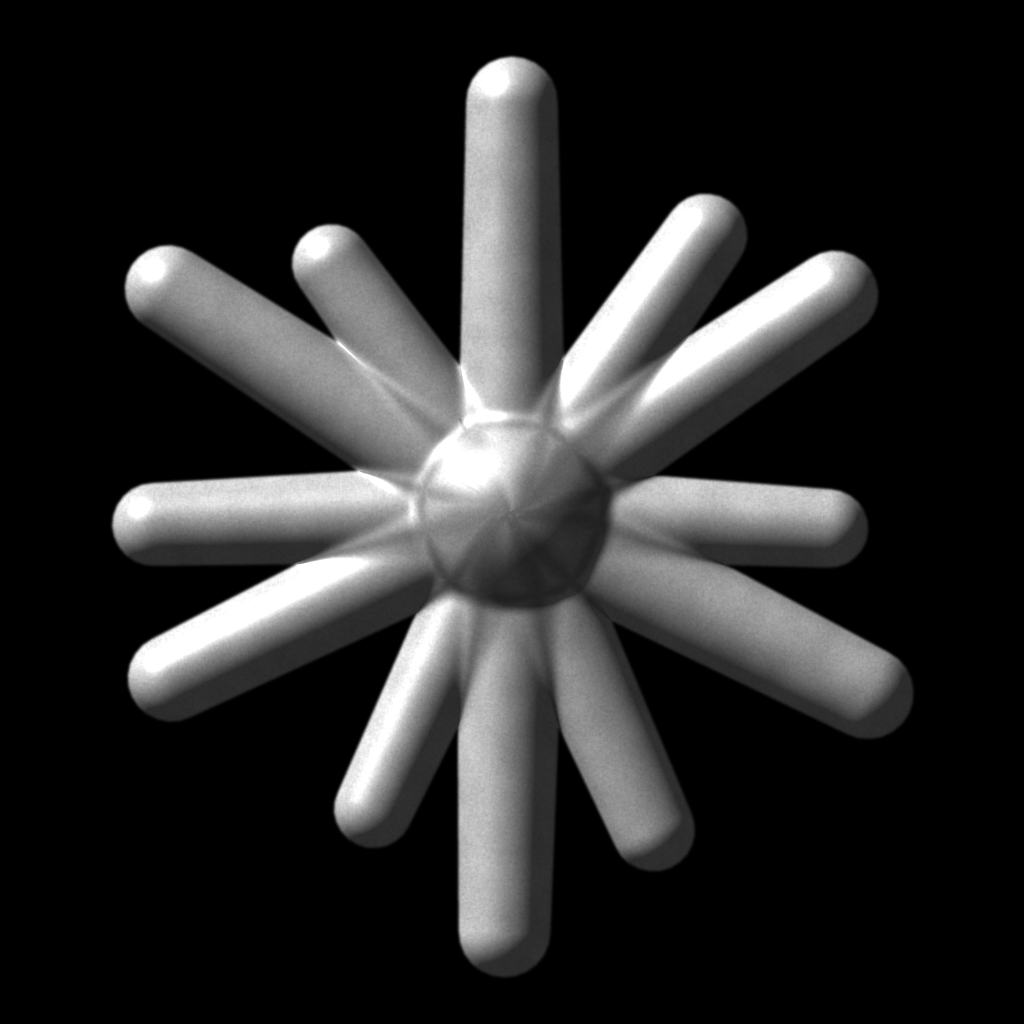
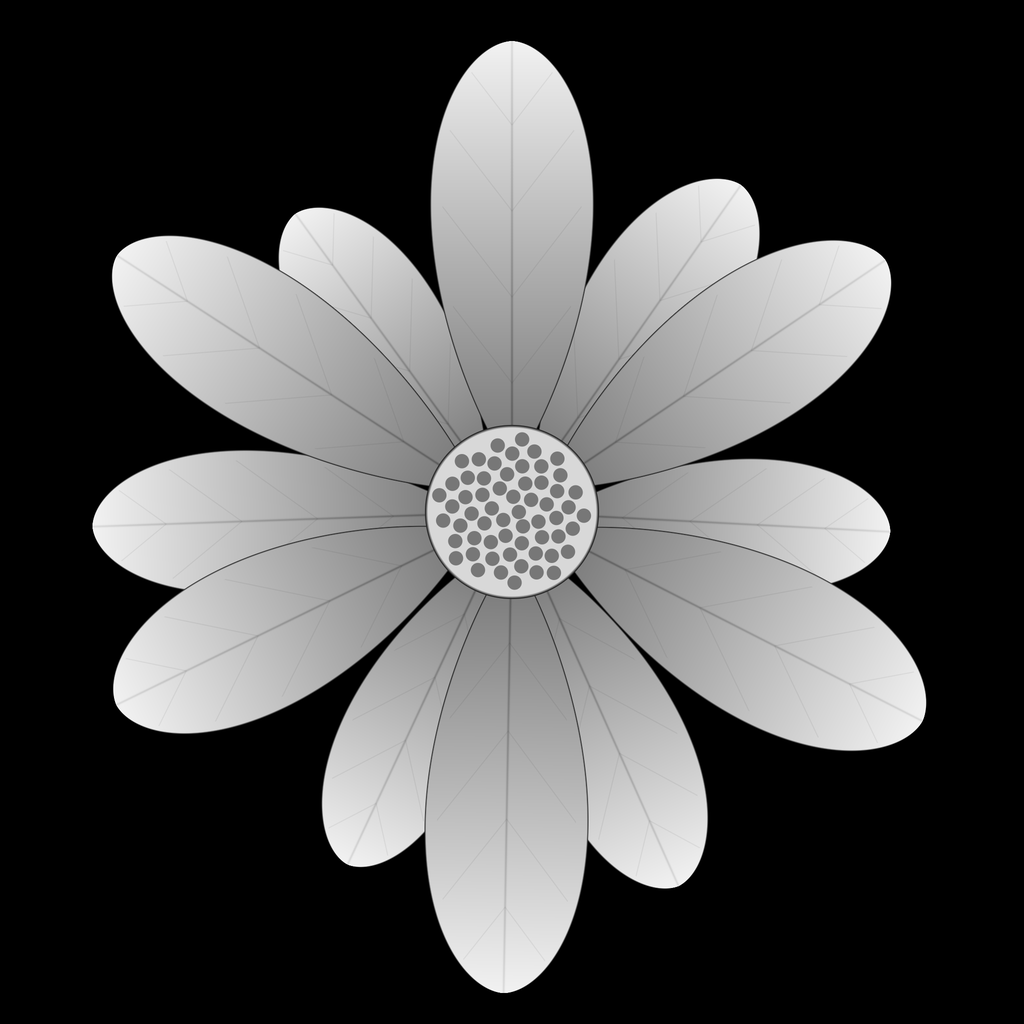
Starburst redrawn as a flat flower: rays become petals round a seeded heart

diff --git a/tools/make-starburst.py b/tools/make-starburst.py
@@ -1,8 +1,8 @@
-"""Draws the starburst picture used as the terminal background.
+"""Draws the picture used as the terminal background: the starburst as a flower.
 
-Our own drawing, in the spirit of the Claude spark: uneven rays of different
-lengths and widths, meeting in the middle. Shaded as a raised, rounded shape lit
-from the upper left, with a fine grain on its surface, so it has depth and texture.
+Our own drawing, in the spirit of the Claude spark: the same uneven rays, but each ray
+is a petal (narrow at the middle, wide and rounded at the end, a vein down the centre)
+around a seeded flower heart. Flat 2D, like a drawing, not lit like an object.
 Grey on black; the shader turns it green, adds the stripes and the rolling light.
 
     python tools/make-starburst.py  ->  styles/green-monitor-starburst/starburst.png
@@ -11,145 +11,93 @@ import math
 import os
 
 import numpy as np
-from PIL import Image, ImageDraw, ImageFilter
+from PIL import Image
 
 SIZE = 1024            # finished picture, square, in pixels
-SUPERSAMPLE = 4        # draw bigger, then shrink, for smooth edges
+SUPERSAMPLE = 2        # draw bigger, then shrink, for smooth edges
 RAY_COUNT = 12
-INNER_RADIUS = 0.05    # fraction of the picture; where each ray starts (near the middle)
-# per ray: (length, width at the base, angle nudge in degrees); uneven on purpose
+# per petal: (length, widest width, angle nudge in degrees); uneven on purpose, like the spark
 RAYS = [
-    (0.40, 0.105, 0), (0.33, 0.095, 5), (0.38, 0.100, -4), (0.31, 0.090, 3),
-    (0.39, 0.105, -3), (0.34, 0.095, 6), (0.41, 0.105, 1), (0.32, 0.090, -5),
-    (0.37, 0.100, 4), (0.35, 0.095, -2), (0.40, 0.100, 3), (0.30, 0.090, -6),
+    (0.46, 0.16, 0), (0.39, 0.14, 5), (0.44, 0.15, -4), (0.37, 0.13, 3),
+    (0.45, 0.16, -3), (0.40, 0.14, 6), (0.47, 0.16, 1), (0.38, 0.13, -5),
+    (0.43, 0.15, 4), (0.41, 0.14, -2), (0.46, 0.15, 3), (0.36, 0.13, -6),
 ]
-TIP_WIDTH = 0.85       # tip width as a fraction of the base width (rounded tip)
-SOFTEN = 1.2           # final blur radius in pixels, so the edges are not razor sharp
+PETAL_START = 0.04     # where petals begin, from the middle (fraction of the picture)
+WIDEST_AT = 0.62       # how far along the petal it is widest (0 = base, 1 = tip)
+TIP_ROUND = 0.55       # lower = rounder, fuller tip; higher = more pointed
 
-# depth and texture
-CORE_RADIUS = 0.10     # the round middle, as a fraction of the picture
-CORE_FLATTEN = 1.0     # how domed the middle is compared with the rays (1 = a full ball)
-BLEND = 30             # pixels; how smoothly rays flow into each other (0 = hard joins)
-LIGHT_DIR = (-0.6, -0.7, 0.45)   # light from the upper left, a little in front
-AMBIENT = 0.18         # brightness of the side facing away from the light
-SHINE = 0.55           # strength of the glossy highlight
-SHINE_TIGHTNESS = 30   # higher = smaller, sharper highlight
-GRAIN = 0.10           # fine surface grain (0 = smooth)
-MOTTLE = 0.14          # larger soft blotches, like worn metal
-MOTTLE_SIZE = 9        # pixels; size of the blotches
-CREASE = 0.25          # darkening in the grooves where rays meet (0 = none)
-CREASE_WIDTH = 10      # pixels; how wide those grooves are
-SMOOTH = 4.0           # pixels; evens out the surface so the joins do not sparkle
+PETAL_BASE_TONE = 0.45 # brightness of a petal where it meets the heart
+PETAL_TIP_TONE = 0.95  # brightness at the petal's outer end
+OUTLINE = 3.0          # pixels; dark line round each petal so overlapping petals read apart
+VEIN_WIDTH = 2.2       # pixels; the centre vein
+VEIN_DARKEN = 0.30
+SIDE_VEINS = 5         # faint veins branching off the centre one, per side
+SIDE_VEIN_DARKEN = 0.07
+
+HEART_RADIUS = 0.085   # the flower's middle (fraction of the picture)
+HEART_TONE = 0.85
+SEEDS = 60             # dots in the middle, laid out in a sunflower spiral
+SEED_SIZE = 0.0070     # dot radius (fraction of the picture)
+SEED_DARKEN = 0.45
 
 OUT = os.path.join(os.path.dirname(__file__), "..", "styles",
                    "green-monitor-starburst", "starburst.png")
 
 
-def ray_polygon(cx, cy, angle, r0, r1, w0, w1, steps=12):
-    """A tapered ray from radius r0 to r1 with a round cap at the far end."""
+def petal(x, y, angle, length, width, size):
+    """Returns (coverage 0..1, tone) for one petal over the whole picture."""
     dx, dy = math.cos(angle), math.sin(angle)
-    nx, ny = -dy, dx
-    pts = [(cx + dx * r0 + nx * w0 / 2, cy + dy * r0 + ny * w0 / 2)]
-    tipx, tipy = cx + dx * r1, cy + dy * r1
-    for i in range(steps + 1):  # half circle round the tip
-        a = math.pi / 2 - math.pi * i / steps
-        pts.append((tipx + (nx * math.sin(a) + dx * math.cos(a)) * w1 / 2,
-                    tipy + (ny * math.sin(a) + dy * math.cos(a)) * w1 / 2))
-    pts.append((cx + dx * r0 - nx * w0 / 2, cy + dy * r0 - ny * w0 / 2))
-    return pts
+    r0, r1 = PETAL_START * size, length * size
+    u = (x * dx + y * dy - r0) / (r1 - r0)         # 0 at the base, 1 at the tip
+    v = -x * dy + y * dx                           # pixels sideways from the centre line
+    t = np.clip(u, 0, 1)
+    # one smooth teardrop curve: grows from nothing, widest at WIDEST_AT, closes at the tip
+    b = TIP_ROUND
+    a = b * WIDEST_AT / (1 - WIDEST_AT)
+    peak = WIDEST_AT ** a * (1 - WIDEST_AT) ** b
+    half = width * size / 2 * t ** a * (1 - t) ** b / peak
+    edge = half - np.abs(v)                        # pixels inside the edge
+    inside = (u > 0) & (u < 1)
+    cover = np.clip(edge + 0.5, 0, 1) * inside
 
-
-def blurred_noise(rng, shape, radius):
-    n = rng.standard_normal(shape)
-    img = Image.fromarray(((n * 40) + 128).clip(0, 255).astype(np.uint8))
-    n = np.asarray(img.filter(ImageFilter.GaussianBlur(radius)), dtype=np.float64) - 128
-    return n / (np.abs(n).max() + 1e-9)
-
-
-def soft_max(a, b, k):
-    """Like max(a, b), but rounds off the join so two shapes flow into one."""
-    h = np.clip(k - np.abs(a - b), 0, None) / k
-    return np.maximum(a, b) + h * h * k / 4 * np.clip(np.minimum(a, b) / k, 0, 1)
-
-
-def blur(a, radius):
-    """Gaussian blur in full precision (an 8-bit blur leaves ripples in the lighting)."""
-    r = int(radius * 3) + 1
-    k = np.exp(-(np.arange(-r, r + 1) / radius) ** 2 / 2)
-    k /= k.sum()
-    a = np.apply_along_axis(lambda v: np.convolve(v, k, mode="same"), 0, a)
-    return np.apply_along_axis(lambda v: np.convolve(v, k, mode="same"), 1, a)
-
-
-def tube_height(size):
-    """Height of the shape: each ray is a rounded tube, the middle a low dome.
-    Where they overlap the taller one wins, which leaves a groove at the join."""
-    y, x = np.mgrid[0:size, 0:size].astype(np.float64) + 0.5
-    x -= size / 2
-    y -= size / 2
-    height = np.zeros((size, size))
-    groove = np.full((size, size), np.inf)
-    for i, (length, width, nudge) in enumerate(RAYS[:RAY_COUNT]):
-        a = math.radians(i * 360 / RAY_COUNT + nudge - 90)
-        dx, dy = math.cos(a), math.sin(a)
-        r0, r1 = INNER_RADIUS * size, length * size
-        t = np.clip((x * dx + y * dy - r0) / (r1 - r0), 0, 1)
-        px, py = x - (r0 + t * (r1 - r0)) * dx, y - (r0 + t * (r1 - r0)) * dy
-        half = width * size / 2 * (1 - t * (1 - TIP_WIDTH))
-        h = np.sqrt(np.clip(half ** 2 - (px ** 2 + py ** 2), 0, None))
-        groove = np.minimum(groove, np.abs(h - height) + (h <= 0) * 1e9 + (height <= 0) * 1e9)
-        height = soft_max(height, h, BLEND)
-    core = CORE_RADIUS * size
-    h = np.sqrt(np.clip(core ** 2 - (x ** 2 + y ** 2), 0, None)) * CORE_FLATTEN
-    groove = np.minimum(groove, np.abs(h - height) + (h <= 0) * 1e9 + (height <= 0) * 1e9)
-    height = soft_max(height, h, BLEND)
-    return height, groove
-
-
-def blurred_noise(rng, shape, radius):
-    n = rng.standard_normal(shape)
-    img = Image.fromarray(((n * 40) + 128).clip(0, 255).astype(np.uint8))
-    n = np.asarray(img.filter(ImageFilter.GaussianBlur(radius)), dtype=np.float64) - 128
-    return n / (np.abs(n).max() + 1e-9)
-
-
-def shade(mask):
-    """Turns the flat white shape into a lit, rounded, textured one."""
-    rng = np.random.default_rng(7)  # fixed seed: same picture every run
-    height, groove = tube_height(mask.shape[0])
-    smooth = blur(height, SMOOTH)
-
-    gy, gx = np.gradient(smooth)
-    n = np.dstack([-gx, -gy, np.ones_like(gx)])
-    n /= np.linalg.norm(n, axis=2, keepdims=True)
-    light = np.array(LIGHT_DIR) / np.linalg.norm(LIGHT_DIR)
-    diffuse = np.clip(n @ light, 0, 1)
-    half = light + np.array([0, 0, 1.0])
-    half /= np.linalg.norm(half)
-    shine = np.clip(n @ half, 0, 1) ** SHINE_TIGHTNESS
-    crease = np.exp(-(groove / CREASE_WIDTH) ** 2)
-
-    tone = AMBIENT + (1 - AMBIENT) * diffuse
-    tone *= 1 + GRAIN * blurred_noise(rng, mask.shape, 0.8) + MOTTLE * blurred_noise(rng, mask.shape, MOTTLE_SIZE)
-    tone *= 1 - CREASE * crease
-    tone += SHINE * shine
-    return np.clip(tone, 0, 1) * mask
+    tone = PETAL_BASE_TONE + (PETAL_TIP_TONE - PETAL_BASE_TONE) * t
+    tone = tone * (1 - VEIN_DARKEN * np.exp(-(v / VEIN_WIDTH) ** 2) * (1 - t * 0.7))
+    along = u * (r1 - r0) - np.abs(v) * 1.3        # side veins slope out towards the tip
+    side = np.exp(-((np.mod(along, (r1 - r0) / SIDE_VEINS) - 4) / 1.6) ** 2)
+    tone = tone * (1 - SIDE_VEIN_DARKEN * side * (np.abs(v) < half * 0.85))
+    tone = tone * np.clip(edge / OUTLINE, 0.15, 1)  # dark rim
+    return cover, tone
 
 
 def main():
-    big = SIZE * SUPERSAMPLE
-    img = Image.new("L", (big, big), 0)
-    draw = ImageDraw.Draw(img)
-    c = big / 2
-    for i, (length, width, nudge) in enumerate(RAYS[:RAY_COUNT]):
+    size = SIZE * SUPERSAMPLE
+    y, x = np.mgrid[0:size, 0:size].astype(np.float64) + 0.5 - size / 2
+    img = np.zeros((size, size))
+
+    # longest petals last so they sit on top, like a real flower's front row
+    order = sorted(range(RAY_COUNT), key=lambda i: RAYS[i][0])
+    for i in order:
+        length, width, nudge = RAYS[i]
         angle = math.radians(i * 360 / RAY_COUNT + nudge - 90)
-        w0 = width * big
-        draw.polygon(ray_polygon(c, c, angle, INNER_RADIUS * big, length * big,
-                                 w0, w0 * TIP_WIDTH), fill=255)
-    draw.ellipse([c - 0.11 * big, c - 0.11 * big, c + 0.11 * big, c + 0.11 * big], fill=255)
-    img = img.resize((SIZE, SIZE), Image.LANCZOS).filter(ImageFilter.GaussianBlur(SOFTEN))
-    shaded = shade(np.asarray(img, dtype=np.float64) / 255)
-    Image.fromarray((shaded * 255).astype(np.uint8)).convert("RGB").save(OUT)
+        cover, tone = petal(x, y, angle, length, width, size)
+        img = img * (1 - cover) + tone * cover
+
+    r = np.hypot(x, y)
+    heart_r = HEART_RADIUS * size
+    cover = np.clip(heart_r - r + 0.5, 0, 1)
+    tone = HEART_TONE * np.clip((heart_r - r) / (OUTLINE * SUPERSAMPLE), 0.15, 1)
+    golden = math.pi * (3 - math.sqrt(5))
+    seed_r = SEED_SIZE * size
+    for k in range(SEEDS):
+        rr = heart_r * 0.86 * math.sqrt((k + 0.5) / SEEDS)
+        sx, sy = rr * math.cos(k * golden), rr * math.sin(k * golden)
+        d = np.hypot(x - sx, y - sy)
+        tone = tone * (1 - SEED_DARKEN * np.clip(seed_r - d + 0.5, 0, 1))
+    img = img * (1 - cover) + tone * cover
+
+    small = Image.fromarray((np.clip(img, 0, 1) * 255).astype(np.uint8))
+    small = small.resize((SIZE, SIZE), Image.LANCZOS)
+    small.convert("RGB").save(OUT)
     print("wrote", os.path.normpath(OUT))
 
 

diff --git a/README.md b/README.md
@@ -9,7 +9,7 @@ small shader (a file that repaints the terminal window) plus a colour scheme.
 
 | Style | What it looks like |
 | --- | --- |
-| [`green-monitor-starburst`](styles/green-monitor-starburst/) | **The default.** An old green monitor: sharp letters with a soft glow, green glass, dark corners, and a faint striped starburst behind the text (rounded and lit, with a grainy metal surface) with a light that slowly runs down the screen over it. |
+| [`green-monitor-starburst`](styles/green-monitor-starburst/) | **The default.** An old green monitor: sharp letters with a soft glow, green glass, dark corners, and a faint striped starburst behind the text, drawn as a flower with the rays as petals, with a light that slowly runs down the screen over it. |
 | [`green-monitor`](styles/green-monitor/) | The same monitor without a picture: fine scanlines over the whole screen, a lighter band and the rolling light. |
 | [`sharp-scanlines`](styles/sharp-scanlines/) | The simplest one: dark scanlines only, letters stay crisp. Pair it with any colour scheme. |
 
